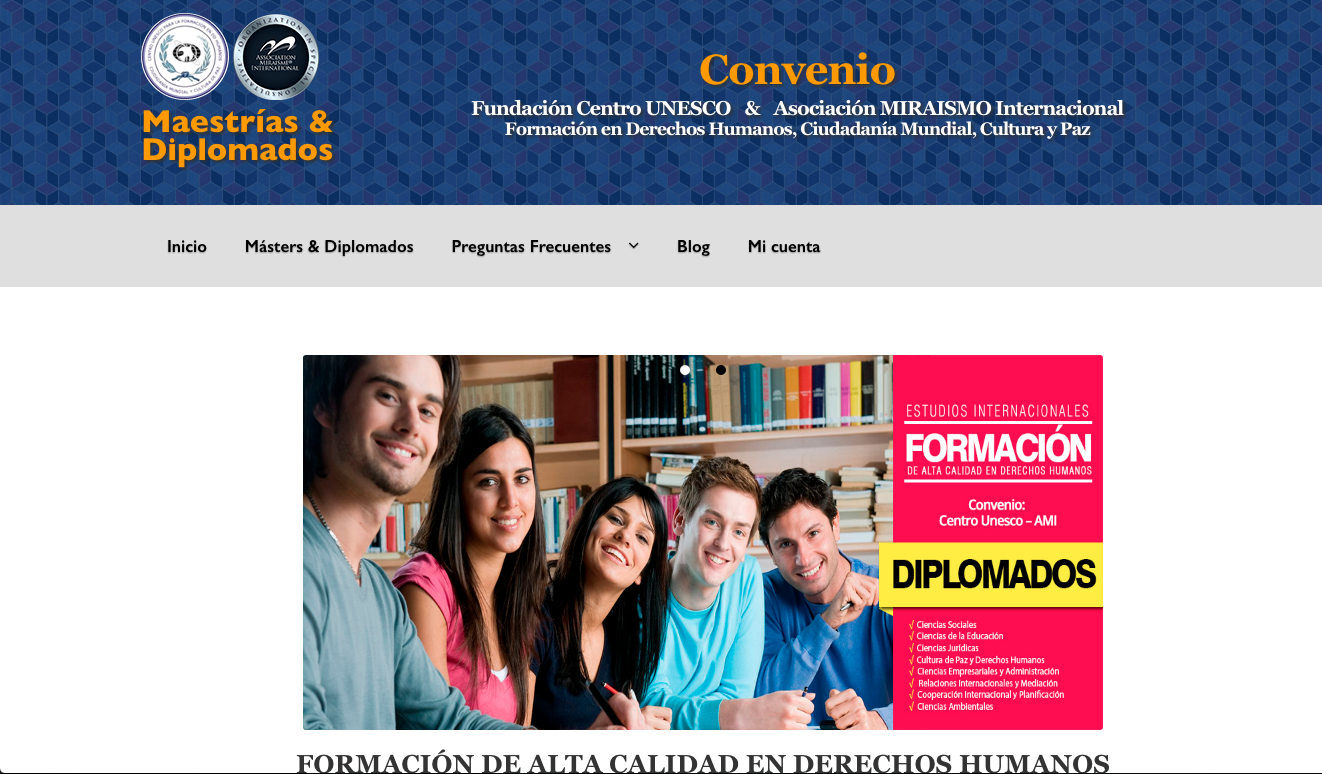
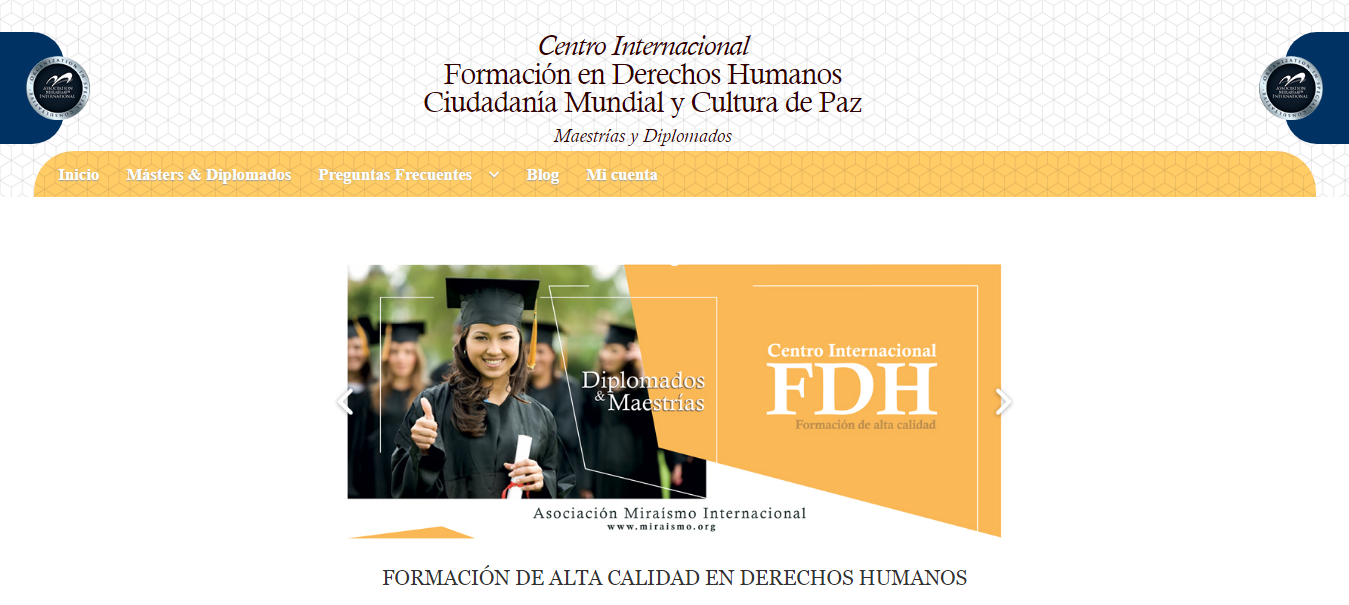
nuevo tema vista desktop solamente

diff --git a/themes/centrounesco/assets/sass/_base.scss b/themes/centrounesco/assets/sass/_base.scss
@@ -12,27 +12,13 @@ select {
 }
 
 h1, h2, h3, h4, h5, h6 {
+	font-weight: 300;
 	color: $custom-font-color;
 }
 
-h1, 
-.alpha {
-	font-size: 2em;
-}
-
-h2, 
+h2,
 .beta {
-	font-size: ms(3);
-}
-
-h3,
-.gamma {
-	font-size: ms(2);
-}
-
-h4,
-.delta {
-	font-size: 1.2em;
+	font-size: ms(4);
 }
 
 a {
@@ -70,9 +56,9 @@ ul.products li.product.product-category .woocommerce-loop-category__title, ul.pr
 .main-navigation {
 	ul li a { 
 		
-			color: #000000;
+			color: #ffffff;
+		    font-size: ms(3);
 		    text-shadow: 0 1px 1px #999999;
-		    font-size: 17px;
 		    font-family: "Gill Sans";
 
 		    &:hover {
@@ -91,6 +77,110 @@ ul.products li.product.product-category .woocommerce-loop-category__title, ul.pr
 	}
 }
 
+.site-header {
+	background: #ffff url("assets/images/mosaico.png") / 15% repeat !important; 
+	position: relative;
+
+	.col-full {
+		max-width: 100%;
+	}
+
+	h1, h2 {
+		text-align: center;
+		color: #330000;
+		font-family: "Calisto MT";
+	}	
+	h1 {
+		font-size: ms(6);
+		line-height: 1;
+	}
+	h2 {
+		font-style: italic;
+		line-height: 0.5;
+	}
+	.row {
+		display: block;
+		&:first-child {
+			font-style: italic;
+		}
+	}
+	.row-fluid {
+		display: inline-block;
+		width: 95%;
+	}
+	.blue-box {
+		background: #003366 url("assets/images/mosaico.png") / 15% repeat;
+		height: 140px;
+		width: 80px;
+		position: absolute;
+		&.left {
+			left: 0;
+			border-radius: 0 40px 40px 0; 
+			img {
+				margin-left: 2em;
+			}
+		}
+		&.right {
+			right: 0;
+			border-radius: 40px 0 0 40px;
+			img {
+				margin-right: 2em;
+			}
+		}
+		div {
+			position: relative;
+			width: 100%;
+			height: 100%;
+		}
+		img {
+			position: absolute;
+			margin: auto;
+			top: 0;
+			right: 0;
+			left: 0;
+			bottom: 0;
+		}
+	}
+
+	.site-header-cart, .site-search {
+		display: none;
+	}
+}
+
+.storefront-primary-navigation {	
+	margin: 0;
+	padding: 0 2em;
+	border-radius: 50px 50px 0 0;
+	background: $header-menu-background url("assets/images/mosaico.png") / 15% repeat;
+}
+
+.site-footer {
+	background-color: $light-background;
+	color: $custom-font-color; 
+}
+
+.site-info {
+	font-size: 12px;
+
+	.copyright-brand {
+		display: block;
+		padding-bottom: 10px;
+		font-size: 16px;
+		font-weight: bold;		
+	}
+	.copyright-info {		
+	    text-align: justify;	    	    
+	}
+	.woocommerce-reference {
+		float: right;		
+		a {
+			color: #A5A6AA;
+		}
+	}
+
+}
+
+/*
 .heading-title {
 	color: #ff9900;
 	line-height: 90%;		
@@ -103,7 +193,7 @@ ul.products li.product.product-category .woocommerce-loop-category__title, ul.pr
 	padding: 1em 0 0 0;			
 	background-image: url("images/header_background.jpg") !important;
 	background-repeat: repeat;
-	background-size: 20%;
+	background-size: 15%;
 	background-color: $header-background;
 
 	h1, h2 {		
@@ -169,34 +259,4 @@ ul.products li.product.product-category .woocommerce-loop-category__title, ul.pr
 		display: none;
 	}
 }
-
-.storefront-primary-navigation {	
-	background-color: $header-menu-background;
-	background-image: none;
-}
-
-.site-footer {
-	background-color: $light-background;
-	color: $custom-font-color; 
-}
-
-.site-info {
-	font-size: 12px;
-
-	.copyright-brand {
-		display: block;
-		padding-bottom: 10px;
-		font-size: 16px;
-		font-weight: bold;		
-	}
-	.copyright-info {		
-	    text-align: justify;	    	    
-	}
-	.woocommerce-reference {
-		float: right;		
-		a {
-			color: #A5A6AA;
-		}
-	}
-
-}
+*/

diff --git a/themes/centrounesco/Gruntfile.js b/themes/centrounesco/Gruntfile.js
@@ -138,7 +138,8 @@ module.exports = function( grunt ) {
 					'assets/sass/base/*.scss',
 					'assets/sass/components/*.scss',
 					'assets/sass/utils/*.scss',
-					'assets/sass/vendors/*.scss'
+					'assets/sass/vendors/*.scss',
+					'assets/sass/*.scss'
 				],
 				tasks: [
 					'sass',
@@ -232,7 +233,7 @@ module.exports = function( grunt ) {
 					'!.DS_Store',
 					'!npm-debug.log'
 				],
-				dest: 'storefront',
+				dest: 'formacion_derechos_humanos',
 				expand: true,
 				dot: true
 			}

diff --git a/themes/centrounesco/assets/sass/utils/_variables.scss b/themes/centrounesco/assets/sass/utils/_variables.scss
@@ -5,12 +5,12 @@ $custom-color-body: 			#0288D1;
 $custom-font-color: 			#333333;
 $font-color-menu: 				#FAFAFA;
 $light-background: 				#F2F2F2;
-$header-background:				#003366;
-$header-menu-background:		#dfdfdf;
+$header-background:				#000000;
+$header-menu-background:		#ffcc66;
 
 //modularscale
-$ms-base:           			1em, .875em;
-$ms-ratio:          			1.618;
+$ms-base:           			1em, .58em;
+$ms-ratio:          			1.5;
 
 //responsive measures
 $desktop:						1025px;

diff --git a/themes/centrounesco/style.scss b/themes/centrounesco/style.scss
@@ -12,10 +12,10 @@
  Text Domain:  centrounesco
 */
 
-@import 'sass/utils/variables';
+@import 'assets/sass/utils/variables';
 @import 'node_modules/susy/sass/susy';
-@import 'sass/vendors/modular-scale';
+@import 'assets/sass/vendors/modular-scale';
 
-@import 'sass/base';
-@import 'sass/responsive';
-@import 'sass/custom';
+@import 'assets/sass/base';
+@import 'assets/sass/responsive';
+@import 'assets/sass/custom';
